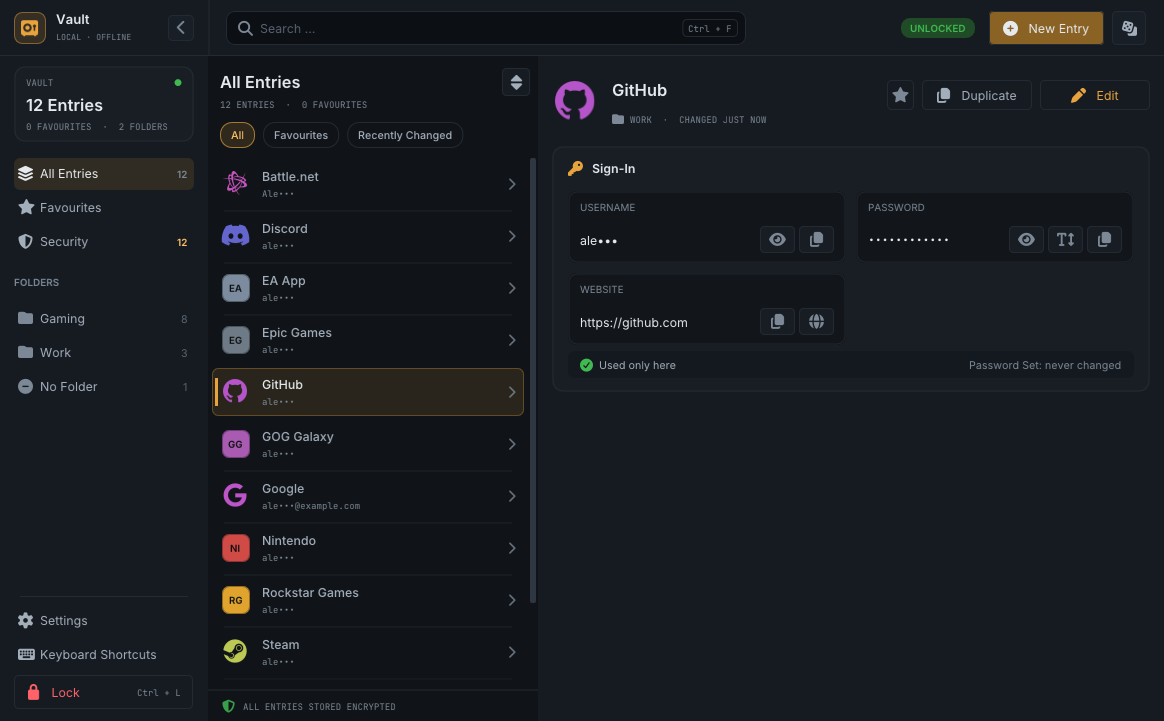
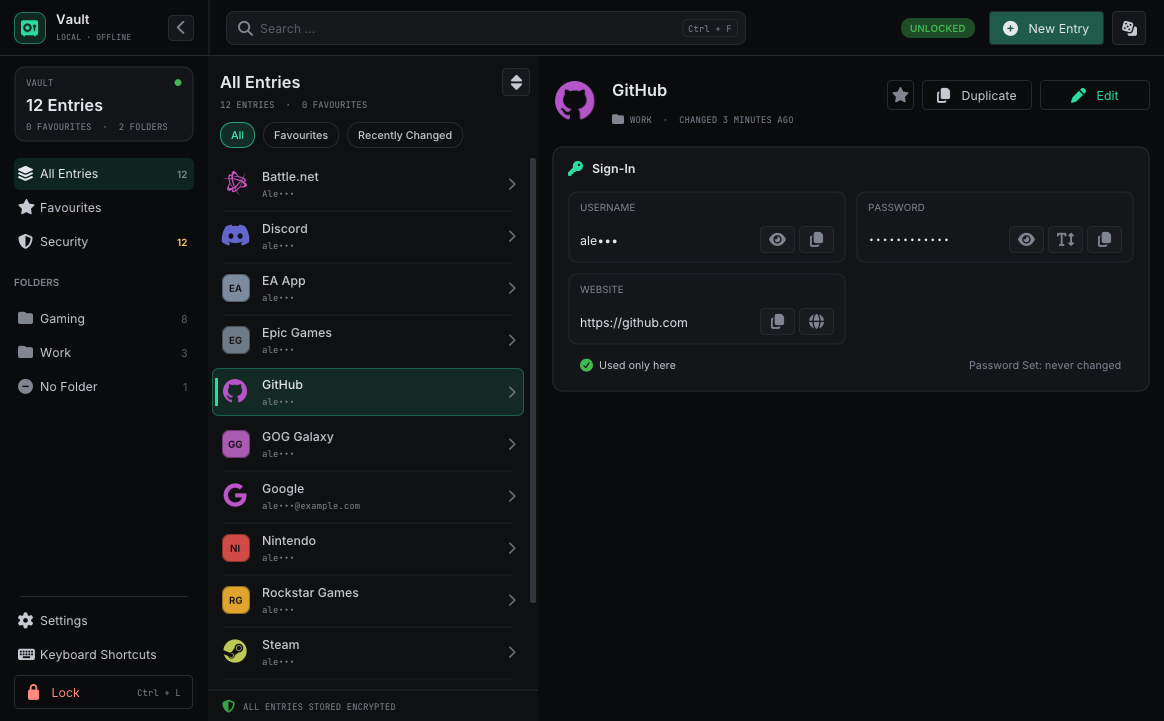
Updated Theme to shared runtime Theme and updated previews.

diff --git a/Tests/Test_Palette.cpp b/Tests/Test_Palette.cpp
@@ -80,7 +80,7 @@ TEST_CASE(Palette_OnlyTheOledThemesNeedColumnRules)
 TEST_CASE(Palette_IdsAreUniqueAndTheFirstIsTheDefault)
 {
     CHECK(PaletteCount() >= 9);
-    CHECK(std::strcmp(PaletteAt(0).Id, "arc") == 0);
+    CHECK(std::strcmp(PaletteAt(0).Id, "manifold") == 0);
     for (std::size_t i = 0; i < PaletteCount(); ++i)
     {
         CHECK_EQ(PaletteIndex(PaletteAt(i).Id), i);
@@ -90,7 +90,8 @@ TEST_CASE(Palette_IdsAreUniqueAndTheFirstIsTheDefault)
     }
     CHECK_EQ(PaletteIndex(""), std::size_t{ 0 });
     CHECK_EQ(PaletteIndex("sepia-2031"), std::size_t{ 0 });
-    CHECK_EQ(PaletteIndex("ARC"), std::size_t{ 0 });
+    CHECK_EQ(PaletteIndex("MANIFOLD"), std::size_t{ 0 });
+    CHECK_MSG(PaletteIndex("arc") != 0, "Bearded Arc is no longer selectable");
     CHECK_MSG(&PaletteAt(PaletteCount() + 5) == &PaletteAt(0),
               "an out-of-range index did not fall back to the default");
 }
@@ -136,6 +137,7 @@ TEST_CASE(Palette_HeaderNumbersNeverMove)
     CHECK(PaletteHeaderCode("red-auto") == 18);
     CHECK(PaletteHeaderCode("green-auto") == 19);
     CHECK(PaletteHeaderCode("blue-auto") == 20);
+    CHECK(PaletteHeaderCode("manifold") == 21);
 }
 
 TEST_CASE(Palette_FollowingWindowsPicksTheMatchingVariant)
@@ -222,16 +224,16 @@ TEST_CASE(Palette_EveryAccentComesInThreeVariants)
     CHECK(PaletteAt(PaletteIndex("light")).Light);
 }
 
-TEST_CASE(Palette_TheDefaultGateKeepsItsRed)
+TEST_CASE(Palette_ArcKeepsItsRedGate)
 {
-    const Palette& p = PaletteAt(0);
+    const Palette& p = PaletteAt(PaletteIndex("arc"));
     CHECK_EQ(p.GlowCore, p.RedCore);
     CHECK_EQ(p.GlowDim, p.RedDim);
 }
 
-TEST_CASE(Palette_TheDefaultIsWhatTheProgramHadBefore)
+TEST_CASE(Palette_ArcIsWhatTheProgramHadBefore)
 {
-    const Palette& p = PaletteAt(0);
+    const Palette& p = PaletteAt(PaletteIndex("arc"));
     CHECK_EQ(p.Panel, std::uint32_t{ 0x161B21 });
     CHECK_EQ(Rgb::FromPacked(p.Panel).Packed(), kPanelColour.Packed());
     CHECK_EQ(p.AccentCore, std::uint32_t{ 0xE8A33D });
@@ -239,6 +241,20 @@ TEST_CASE(Palette_TheDefaultIsWhatTheProgramHadBefore)
     CHECK_EQ(p.WarnBright, p.AccentBright);
     CHECK_EQ(p.WarnDim, p.AccentDim);
     CHECK_EQ(p.Shade, p.Void);
+    CHECK(!p.Light);
+}
+
+TEST_CASE(Palette_TheDefaultIsTheManifoldLook)
+{
+    const Palette& p = PaletteAt(0);
+    CHECK_EQ(p.AccentCore, std::uint32_t{ 0x2EDB9E });
+    CHECK_EQ(p.AccentBright, std::uint32_t{ 0x42F0B3 });
+    CHECK_EQ(p.Panel, std::uint32_t{ 0x0A0B0D });
+    CHECK_EQ(p.Surface, std::uint32_t{ 0x0F1012 });
+    CHECK_EQ(p.TextPrimary, std::uint32_t{ 0xE6E8ED });
+    CHECK_EQ(p.TextMuted, std::uint32_t{ 0x80858F });
+    CHECK_EQ(p.WarnCore, std::uint32_t{ 0xF2B352 });
+    CHECK_EQ(p.RedCore, std::uint32_t{ 0xF26B5C });
     CHECK(!p.Light);
     CHECK_MSG(!p.Square && !p.Monospace, "the default became square or monospace");
 }

diff --git a/Manifold-Vault/Source/Core/Palette.cpp b/Manifold-Vault/Source/Core/Palette.cpp
@@ -7,6 +7,17 @@ namespace Bunker
     namespace
     {
         constexpr Palette kPalettes[] = {
+            { "manifold", false,
+              0x08090B, 0x0F1012, 0x0A0B0D, 0x1D1F24, 0x17181C,
+              0x26282D, 0x33363D,
+              0xE6E8ED, 0xC7C9D1, 0x80858F, 0x575B63,
+              0x2EDB9E, 0x42F0B3, 0x1E5B48,
+              0xF2B352, 0xFFCB7A, 0x7A5626,
+              0xF26B5C, 0xFF8B7E, 0x7A2B24,
+              0x3FB950, 0x1F4B27,
+              0x050506,
+              0x2B9ED9, 0x12405A },
+
             { "arc", false,
               0x0A0C0E, 0x101418, 0x161B21, 0x1C222A, 0x0C0F13,
               0x232A33, 0x2E3742,
@@ -170,6 +181,7 @@ namespace Bunker
             { "moss", 9 },       { "terminal", 10 },   { "red", 11 },        { "red-oled", 12 },
             { "red-light", 13 }, { "green", 14 },      { "green-oled", 15 }, { "green-light", 16 },
             { "blue-oled", 17 }, { "red-auto", 18 },     { "green-auto", 19 }, { "blue-auto", 20 },
+            { "manifold", 21 },
         };
 
         struct ThemeFamily
@@ -179,6 +191,7 @@ namespace Bunker
 
         // Order of the colour choice in the settings; null: mode not offered.
         constexpr ThemeFamily kFamilies[] = {
+            { { "manifold", nullptr, nullptr, nullptr } },
             { { "arc", nullptr, nullptr, nullptr } },
             { { "red", "red-oled", "red-light", "red-auto" } },
             { { "green", "green-oled", "green-light", "green-auto" } },

diff --git a/Manifold-Vault/Source/UI/ScreenSettings.cpp b/Manifold-Vault/Source/UI/ScreenSettings.cpp
@@ -197,6 +197,7 @@ namespace Bunker::UI::Settings
         {
             struct Named { const char* Id; Str Name; };
             static constexpr Named kNames[] = {
+                { "manifold", Str::Settings_ThemeManifold },
                 { "arc", Str::Settings_ThemeArc },
                 { "red", Str::Settings_ThemeRedDark },
                 { "red-oled", Str::Settings_ThemeRedOled },
@@ -222,6 +223,7 @@ namespace Bunker::UI::Settings
         {
             struct Named { const char* Id; Str Name; };
             static constexpr Named kNames[] = {
+                { "manifold", Str::Settings_ThemeManifold },
                 { "arc", Str::Settings_ThemeArc },
                 { "red", Str::Settings_FamilyRed },
                 { "green", Str::Settings_FamilyGreen },

diff --git a/Manifold-Vault/Source/Lang/De.h b/Manifold-Vault/Source/Lang/De.h
@@ -653,6 +653,7 @@ namespace Bunker::Lang
         .Audit_InsecureOne        = "Eine Adresse beginnt mit http:// – die Verbindung dorthin ist nicht verschlüsselt.",
         .Audit_InsecureNote       = "Meist klappt dieselbe Adresse auch mit https://. Adressen im Heimnetz, etwa der Router, zählen nicht.",
         .Audit_TagInsecure        = "unsichere Adresse",
+        .Settings_ThemeManifold   = "Manifold",
     };
 
     inline constexpr const char* kGermanWords[] = {

diff --git a/README.md b/README.md
@@ -21,10 +21,11 @@ file next to the program: no account, no cloud, no network access.
 - Automatic backup copies after saving.
 - Auto-lock when idle, minimised, on focus loss, when Windows locks or sleeps;
   copied secrets are removed from the clipboard after a delay.
-- Thirteen colour schemes: red, green and blue, each as dark, OLED (true black)
-  and light or following the Windows setting, plus Bearded Arc, Mint, Midnight
-  and a monospace Terminal scheme. Four text sizes. The unlock screen uses the
-  vault's scheme and size.
+- Fourteen colour schemes. The default, Manifold, is the look of the other
+  Manifold tools. Then red, green and blue, each as dark, OLED (true black) and
+  light or following the Windows setting, plus Bearded Arc, Mint, Midnight and a
+  monospace Terminal scheme. Four text sizes. The unlock screen uses the vault's
+  scheme and size.
 - Brand icons for known services, or one of 148 symbols for everything else.
 - English and German user interface.
 
